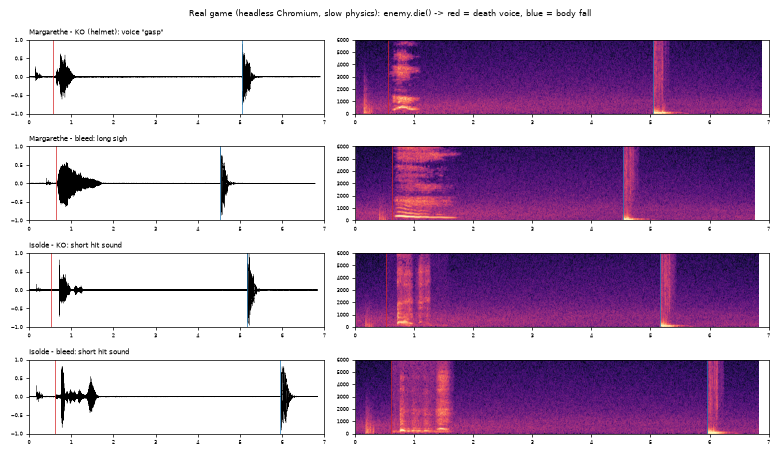
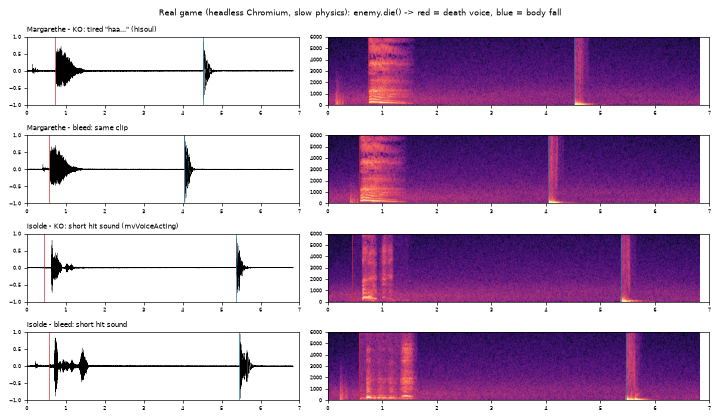
Sound: Margarethe dies with hisoul's tired low exhale instead (owner: she is the veteran); Reitanna's gasp and sigh kept in docs/sound_reserve for later
The owner changed Margarethe to her own candidate 3, one CC0 clip used for both
deaths (gain 1.1, as previewed). The two Reitanna clips the owner liked move out
of public/ into docs/sound_reserve with their sources. Isolde is unchanged.

Claude-Session: https://claude.ai/code/session_018mZ2Hqp8QUttYxEroMCesF

diff --git a/src/sound.js b/src/sound.js
@@ -299,7 +299,7 @@ export const VOICES = {
   isolde: { f0: 215, tract: 1.17, breath: 0.55, rough: 0.1, style: 'gasp', rec: { ko: 1, bleed: 1, gain: 1.3 } }, // 짧게 맞는 소리 "흣"·"읏" 녹음(mvVoiceActing, CC0, 사장님 선택). 비명(450~525Hz)은 차분한 스물한 살 검사에게 부자연스러웠다
   liao: { f0: 112, tract: 1.0, breath: 0.65, rough: 0.35, style: 'sigh', rec: { ko: 1, bleed: 2, gain: 0.6, rate: 0.95 } }, // 짧은 신음 + 낮고 짧은 신음 녹음(HaelDB). 예전 합성 한숨은 증기처럼 "치이익" 새어 기차 소리 같았다
   heinrich: { f0: 132, tract: 1.03, breath: 0.3, rough: 0.35, style: 'laugh', rec: { ko: 2, bleed: 2 } }, // HaelDB 가장 높은 목소리(과장된 외침) + VoiceBosch
-  margarethe: { f0: 160, tract: 1.12, breath: 0.6, rough: 0.25, style: 'exhale', rec: { ko: 1, bleed: 1 } }, // 목소리 섞인 "헉"과 긴 한숨 녹음(Reitanna, CC0, 사장님 선택). 음은 낮추지 않았다: 여성 녹음을 낮추면 익룡·괴수처럼 들렸고, 합성 날숨은 폰에서 뭉개졌다
+  margarethe: { f0: 160, tract: 1.12, breath: 0.6, rough: 0.25, style: 'exhale', rec: { ko: 1, bleed: 1, gain: 1.1 } }, // 지친 날숨 섞인 낮은 "하아…" 녹음 하나를 두 죽음에 같이 쓴다(hisoul, CC0, 사장님 선택 — 노장이라). 음은 낮추지 않았다: 여성 녹음을 낮추면 익룡·괴수처럼 들렸고, 합성 날숨은 폰에서 뭉개졌다
 };
 
 /**

diff --git a/src/soundlab.js b/src/soundlab.js
@@ -211,7 +211,7 @@ const DEATH_ROWS = [
   ['isolde', '이졸데', '짧게 맞는 소리 "흣"·"읏" (녹음)'],
   ['liao', '랴오 쓰위엔', '거의 소리 없이 한숨'],
   ['heinrich', '하인리히', '쉰 웃음이 신음으로 끊김'],
-  ['margarethe', '마르그레테', '목소리 섞인 "헉", 피가 빠지면 긴 한숨 (녹음)'],
+  ['margarethe', '마르그레테', '지친 날숨 섞인 낮은 "하아…" (녹음)'],
 ];
 for (const [id, name, desc] of DEATH_ROWS) {
   ROWS.push([

diff --git a/docs/sound_reserve/README.md b/docs/sound_reserve/README.md
@@ -1,0 +1,15 @@
+# 보관 소리 (게임에 쓰지 않음)
+
+사장님이 마음에 들어 하셨지만 아직 자리가 정해지지 않은 녹음이다. `public/` 밖에 두어서 배포되지 않는다.
+쓰게 되면 `public/sfx/`로 옮기고, `public/sfx/LICENSE.txt`에 출처를 적는다.
+
+| 파일 | 원본 | 라이선스 | 메모 |
+|---|---|---|---|
+| `reitanna_gasp.mp3` (0.64초) | Reitanna "gasp.wav" — https://freesound.org/people/Reitanna/sounds/241563/ | CC0 | 목소리 섞인 짧은 "헉". 약 380Hz |
+| `reitanna_long_sigh.mp3` (1.22초) | Reitanna "long sigh.wav" — https://freesound.org/people/Reitanna/sounds/242690/ | CC0 | 낮은 긴 한숨. 약 245Hz |
+
+- 2026-09-28(15차): 사운드 PM이 이졸데 죽음 목소리 후보 2번으로 들려드렸다.
+  - 한때 슈바르츠에 넣었다가, 사장님이 "노장이니까" 슈바르츠 후보 3번(hisoul)으로 바꾸셨다.
+  - 사장님 말씀: "자연스럽고 맘에 들어, 저장했다 다른 데 쓰자".
+- 가공: 70Hz 고역 통과, 피크 -1dBFS, 모노 mp3. 음은 낮추지 않았다.
+- 같은 성우(Reitanna)의 CC0 녹음이 Freesound에 수백 개 더 있다: 한숨, 신음, 헉, 기합 등(`username:Reitanna`로 검색).

diff --git a/docs/handoff/sound_pm_handoff.md b/docs/handoff/sound_pm_handoff.md
@@ -73,7 +73,7 @@
 | player, generic, bran, heinrich | 녹음 (HaelDB CC0, Baradari CC-BY 3.0, VoiceBosch CC-BY-SA 4.0) |
 | liao | 녹음 (HaelDB, 짧은 신음·낮은 신음) |
 | isolde | 녹음 (mvVoiceActing "girl damage" CC0: 짧게 맞는 소리 두 개, `gain: 1.3`). 사장님이 후보 3개 중 고름(15차) |
-| margarethe (슈바르츠) | 녹음 (Reitanna CC0: 목소리 섞인 "헉" / 긴 한숨). 사장님이 이졸데 후보였던 것을 슈바르츠에 고름(15차). `mute`는 기능만 남고 쓰는 캐릭터가 없다 |
+| margarethe (슈바르츠) | 녹음 (hisoul CC0: 지친 날숨 섞인 낮은 "하아…", 두 죽음에 같이 씀, `gain: 1.1`). 사장님 선택(15차, "노장이니까"). `mute`는 기능만 남고 쓰는 캐릭터가 없다. 사장님이 아낀 Reitanna 녹음은 `docs/sound_reserve/`에 보관 |
 
 ### 배경(스테이지) — `STAGE_SOUND` 표 + `setStage(id)`
 - 스테이지는 **고정 순서**로 돈다: 포세이돈 → 성 안뜰 → 산사 → 대성당 → 다시 포세이돈 (사장님 결정).
